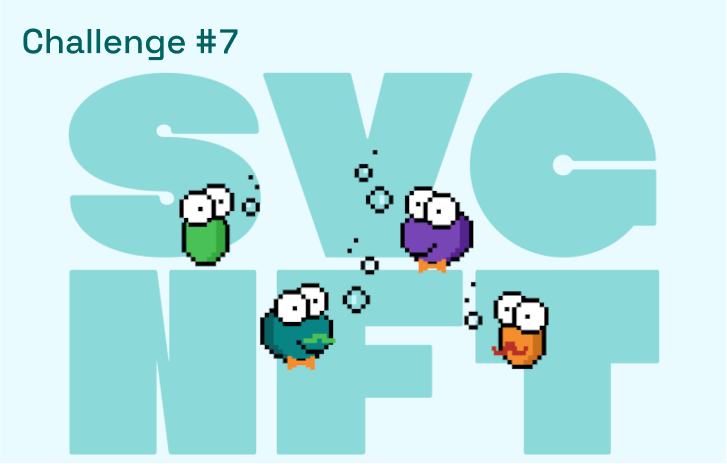
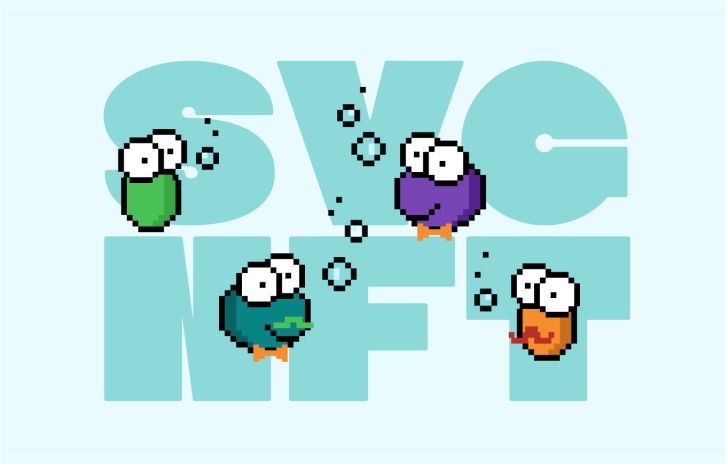
Delete challenge # from image assets

diff --git a/README.md b/README.md
@@ -1,6 +1,6 @@
 # 🚩 Challenge 7: 🎁 SVG NFT
 
-![readme-7](https://github.com/scaffold-eth/se-2-challenges/assets/25638585/94178d41-f7ce-4d0f-af9a-488a224d301f)
+![readme-7](https://github.com/user-attachments/assets/3907eaa6-cc20-45f1-a948-c30af896f64d)
 
 🎨 Creating on-chain SVG NFTs is an exciting way to leverage the power of smart contracts for generating unique digital art. This challenge will have you build a contract that generates dynamic SVG images directly on the blockchain. Users will be able to mint their own unique NFTs with customizable SVG graphics and metadata.
 
